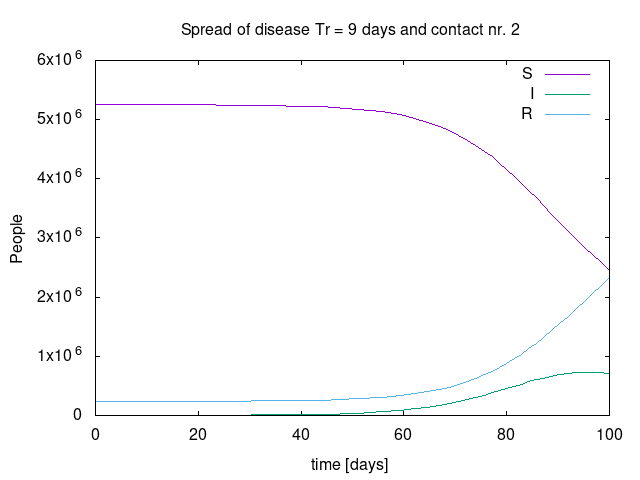
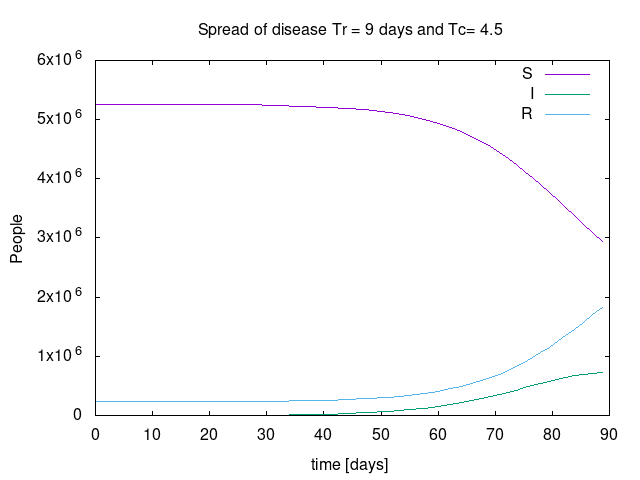
Much confusion waiting for answer from dimitri

diff --git a/homework/ode/main.c b/homework/ode/main.c
@@ -1,4 +1,5 @@
 #include <gsl/gsl_matrix.h>
+#include <gsl/gsl_vector.h>
 #include <math.h>
 #include <assert.h>
 #include <stdio.h>
@@ -71,13 +72,17 @@ int bby_driver(void f(double x, gsl_vector* y, gsl_vector* dydx)
     while (xpos < b ){
         if (xpos+h>b) h=b-xpos;
         gsl_vector_view yx = gsl_matrix_row(&Y.matrix,k);
+        //printf("%i %i %i\n",(&Y.matrix)->size1,(&Y.matrix)->size2,(&yx.vector)->size);
         rkstep12(f,xpos,&yx.vector,h, yplaceholder,err);
+        printf("ny\n");
+        gsl_vector_fprintf(stdout,yplaceholder,"%g");
         dy = gsl_blas_dnrm2(err);
         normy = gsl_blas_dnrm2(yplaceholder);
         tol = (normy*eps+acc)*sqrt(h/(b-a));
         if(dy<tol){
             k++;
             if(k>=steps){
+                return -k;
                 //printf("Her %i\n",k);
                 #warning original memory to small additional is added
                 *Yal = realloc(*Yal, sizeof(double)*(n*(k+1)));
@@ -87,6 +92,7 @@ int bby_driver(void f(double x, gsl_vector* y, gsl_vector* dydx)
 
             }
             xpos+=h;
+            //printf("xpos: %g h: %g\n",xpos, h);
             //printf("first row at k: %i\n", k);
             //matrix_print(&Y.matrix,stdout);
             gsl_vector_set(&X.vector,k,xpos);
@@ -125,16 +131,79 @@ void SIR(double x, gsl_vector* y, gsl_vector* dydx){
     gsl_vector_set(dydx,2,drdt);
 }
 
+void SIR3(double x, gsl_vector* y, gsl_vector* dydx){
+    double N = 5.5e6;
+    double contact = 3. ;
+    double Tr = 9.; //days
+    double Tc = Tr/contact;
+    double s = gsl_vector_get(y,0);
+    double i = gsl_vector_get(y,1);
+    double dsdt = -i*s/(N*Tc);
+    assert(dsdt<0);
+    double didt = i*s/(N*Tc)-i/Tr;
+    double drdt = i/Tr;
+    gsl_vector_set(dydx,0,dsdt);
+    gsl_vector_set(dydx,1,didt);
+    gsl_vector_set(dydx,2,drdt);
+}
+
+void threebody( double x, gsl_vector* y, gsl_vector* dydx){
+    double G = 1.;
+    double m1 = 1.;
+    double m2 = 1.;
+    double m3 = 1.;
+    double r1x = gsl_vector_get(y,0);
+    double r1y = gsl_vector_get(y,1);
+    double r2x = gsl_vector_get(y,2);
+    double r2y = gsl_vector_get(y,3);
+    double r3x = gsl_vector_get(y,4);
+    double r3y = gsl_vector_get(y,5);
+    double dr1x = gsl_vector_get(y,6);
+    double dr1y = gsl_vector_get(y,7);
+    double dr2x = gsl_vector_get(y,8);
+    double dr2y = gsl_vector_get(y,9);
+    double dr3x = gsl_vector_get(y,10);
+    double dr3y = gsl_vector_get(y,11);
+    double r1r2 = sqrt(pow((r1x-r2x),2)*pow((r1y-r2y),2));
+    double r1r3 = sqrt(pow((r1x-r3x),2)*pow((r1y-r3y),2));
+    double r2r3 = sqrt(pow((r2x-r3x),2)*pow((r2y-r3y),2));
+    assert(r1r2>0);
+    assert(r2r3>0);
+    assert(r1r3>0);
+
+    double ddr1x = -G*m2/pow(r1r2,3)*(r1x-r2x)-G*m3/pow(r1r3,3)*(r1x-r3x);
+    double ddr1y = -G*m2/pow(r1r2,3)*(r1y-r2y)-G*m3/pow(r1r3,3)*(r1y-r3y);
+    double ddr2x = -G*m3/pow(r2r3,3)*(r2x-r3x)-G*m1/pow(r1r2,3)*(r2x-r1x);
+    double ddr2y = -G*m3/pow(r2r3,3)*(r2y-r3y)-G*m1/pow(r1r2,3)*(r2y-r1y);
+    double ddr3x = -G*m1/pow(r1r3,3)*(r3x-r1x)-G*m2/pow(r2r3,3)*(r3x-r2x);
+    double ddr3y = -G*m1/pow(r1r3,3)*(r3y-r1y)-G*m2/pow(r2r3,3)*(r3y-r2y);
+    gsl_vector_set(dydx,0,dr1x);
+    gsl_vector_set(dydx,1,dr1y);
+    gsl_vector_set(dydx,2,dr2x);
+    gsl_vector_set(dydx,3,dr2y);
+    gsl_vector_set(dydx,4,dr3x);
+    gsl_vector_set(dydx,5,dr3y);
+    gsl_vector_set(dydx,6,ddr1x);
+    gsl_vector_set(dydx,7,ddr1y);
+    gsl_vector_set(dydx,8,ddr2x);
+    gsl_vector_set(dydx,9,ddr2y);
+    gsl_vector_set(dydx,10,ddr3x);
+    gsl_vector_set(dydx,11,ddr3y);
+
+}
+
 int main(){
     FILE* harmOsc = fopen("out.harmosc.txt","w");
     FILE* disease = fopen("out.disease.txt","w");
+    FILE* disease3 = fopen("out.disease3.txt","w");
+    FILE* body3 = fopen("out.3body.txt","w");
     double eps = 0.005;
     double abs = 0.005;
     double a=0, b=M_PI;
     int k;
     gsl_vector* ya = gsl_vector_calloc(2);
     gsl_vector_set(ya,1,1.);
-    int n=2, m=40;
+    int n=2, m=100;
     double* Yal = malloc(sizeof(double)*(m*n));
     double* Xal = malloc(sizeof(double)*(m));
     k = bby_driver(harmosc,a,ya,&Yal,m,&Xal,b,(b-a)/30,abs,eps);
@@ -143,7 +212,7 @@ int main(){
 
 
     //Disease part
-    int dk;
+    int dk, dk3;
     double da=0., db=100.;
     gsl_vector* dya = gsl_vector_calloc(3);
     double I = 661., hadDisease=234318.;
@@ -152,12 +221,17 @@ int main(){
     gsl_vector_set(dya,0,S);
     gsl_vector_set(dya,1,I);
     gsl_vector_set(dya,2,R);
-    int dn=3, dm=6;
+    int dn=3, dm=300;
     double* Dal = malloc(sizeof(double)*(dm*dn));
     double* Tal = malloc(sizeof(double)*(dm));
+    double* Dal3 = malloc(sizeof(double)*(dm*dn));
+    double* Tal3 = malloc(sizeof(double)*(dm));
     dk = bby_driver(SIR,da,dya,&Dal,dm,&Tal,db,(db-da)/dm,abs,eps);
+    dk3 = bby_driver(SIR3,da,dya,&Dal3,dm,&Tal3,db,(db-da)/dm,abs,eps);
     gsl_matrix_view D = gsl_matrix_view_array(Dal,dk,dn);
     gsl_vector_view T = gsl_vector_view_array(Tal, dk);
+    gsl_matrix_view D3 = gsl_matrix_view_array(Dal3,dk3,dn);
+    gsl_vector_view T3 = gsl_vector_view_array(Tal3, dk3);
     //printf("%i",dk);
     //printf("her");
     //gsl_vector_fprintf(stdout, dya,"%g");
@@ -169,15 +243,97 @@ int main(){
         //printf("%g %g %g %g \n",ti,gsl_matrix_get(&D.matrix,i,0),gsl_matrix_get(&D.matrix,i,1),gsl_matrix_get(&D.matrix,i,2));
 
     }
+    for(int i =0; i<dk3;i++){
+        double ti3 = gsl_vector_get(&T3.vector,i);
+        fprintf(disease3,"%g %g %g %g\n",ti3,gsl_matrix_get(&D3.matrix,i,0),gsl_matrix_get(&D3.matrix,i,1),gsl_matrix_get(&D3.matrix,i,2));
+        //printf("%g %g %g %g \n",ti,gsl_matrix_get(&D.matrix,i,0),gsl_matrix_get(&D.matrix,i,1),gsl_matrix_get(&D.matrix,i,2));
+    }
+
     for(int i =0; i<k;i++){
         double xi = gsl_vector_get(&X.vector,i);
         fprintf(harmOsc,"%g %g %g\n",xi,gsl_matrix_get(&Y.matrix,i,0),sin(xi));
         //printf("%g %g %g\n",xi,gsl_matrix_get(&Y.matrix,0,i),sin(xi));
     }
 
+
+    //3-body system
+
+    double c=0., d=3.;
+    int j;
+    gsl_vector* vec0 = gsl_vector_calloc(12);
+    gsl_vector* vecplace = gsl_vector_calloc(12);
+    gsl_vector* err = gsl_vector_calloc(12);
+    double r1x,r1y,r2x,r2y,r3x,r3y;
+    double dr1x,dr1y,dr2x,dr2y,dr3x,dr3y;
+    r1x=0.97000436;
+    r1y=-0.24308753;
+    r2x=-0.97000436;
+    r2y=0.24308753;
+    r3x=0.;
+    r3y=0.;
+    dr3x=-0.93240737;
+    dr3y=-0.86473146;
+    dr1x=-dr3x/2;
+    dr1y=-dr3y/2;
+    dr2x=-dr3x/2;
+    dr2y=-dr3y/2;
+
+    gsl_vector_set(vec0,0,r1x);
+    gsl_vector_set(vec0,1,r1y);
+    gsl_vector_set(vec0,2,r2x);
+    gsl_vector_set(vec0,3,r2y);
+    gsl_vector_set(vec0,4,r3x);
+    gsl_vector_set(vec0,5,r3y);
+    gsl_vector_set(vec0,6,dr1x);
+    gsl_vector_set(vec0,7,dr1y);
+    gsl_vector_set(vec0,8,dr2x);
+    gsl_vector_set(vec0,9,dr2y);
+    gsl_vector_set(vec0,10,dr3x);
+    gsl_vector_set(vec0,11,dr3y);
+    /*
+    rkstep12(threebody,0,vec0,0.07,vecplace,err);
+    gsl_vector_fprintf(stdout,vec0,"%g");
+    printf("one run:\n");
+    gsl_vector_fprintf(stdout,vecplace,"%g");
+    printf("one run:\n");
+    gsl_vector_fprintf(stdout,err,"%g");
+    printf("norm: %g\n",gsl_blas_dnrm2(err));
+     */
+    double N=12;
+    double M=10000;
+    double ABS =0.001;
+    double EPS = 0.001;
+    double* Ral = malloc(sizeof(double)*(M*N));
+    double* Zal = malloc(sizeof(double)*(M));
+    printf("her\n");
+    j = bby_driver(threebody,c,vec0,&Ral,M,&Zal,d,0.001 ,ABS,EPS);
+    printf("Ogsaa her?");
+    gsl_matrix_view r = gsl_matrix_view_array(Ral, M, N);
+    gsl_vector_view Z = gsl_vector_view_array(Zal, M);
+    for(int i =0; i<M;i++){
+        double zi = gsl_vector_get(&Z.vector,i);
+        fprintf(body3,"%g %g %g %g %g %g %g %g %g %g %g %g %g\n",zi,gsl_matrix_get(&r.matrix,i,0),gsl_matrix_get(&r.matrix,i,1),
+                gsl_matrix_get(&r.matrix,i,2),gsl_matrix_get(&r.matrix,i,3),
+                gsl_matrix_get(&r.matrix,i,4),gsl_matrix_get(&r.matrix,i,5),
+                gsl_matrix_get(&r.matrix,i,6),gsl_matrix_get(&r.matrix,i,7),
+                gsl_matrix_get(&r.matrix,i,8),gsl_matrix_get(&r.matrix,i,9),
+                gsl_matrix_get(&r.matrix,i,10),gsl_matrix_get(&r.matrix,i,11));
+    }
+
+    gsl_vector_free(vec0);
     free(Xal);
     free(Yal);
     free(Tal);
     free(Dal);
+    free(Tal3);
+    free(Dal3);
+    gsl_vector_free(ya);
+    gsl_vector_free(dya);
+    gsl_vector_free(vecplace);
+    gsl_vector_free(err);
+    fclose(disease);
+    fclose(disease3);
+    fclose(harmOsc);
+    fclose(body3);
 	return 0;
 }

diff --git a/homework/eigenvalues/main.c b/homework/eigenvalues/main.c
@@ -67,7 +67,7 @@ void jacobi_diag(gsl_matrix* A, gsl_matrix* V){
         }
     } while (changed!=0);
 }
-void jacobi_diag_UT(gsl_matrix* A, gsl_matrix* V){
+void jacobi_diag_opt(gsl_matrix* A, gsl_matrix* V){
     int changed=0;
     int count=0;
     int n = A->size1;
@@ -122,7 +122,7 @@ int main(){
     matrix_print(A,test);
 
 
-    jacobi_diag_UT(A,V);
+    jacobi_diag_opt(A,V);
 
 
     gsl_matrix_memcpy(Vcpy,V);
@@ -269,7 +269,10 @@ int main(){
         gsl_matrix_free(gslM);
         gsl_matrix_free(gslV);
         gsl_vector_free(gslS);
-
+        fclose(test);
+        fclose(infWellE);
+        fclose(infWell);
+        fclose(compare);
     }
     return 0;
 }
